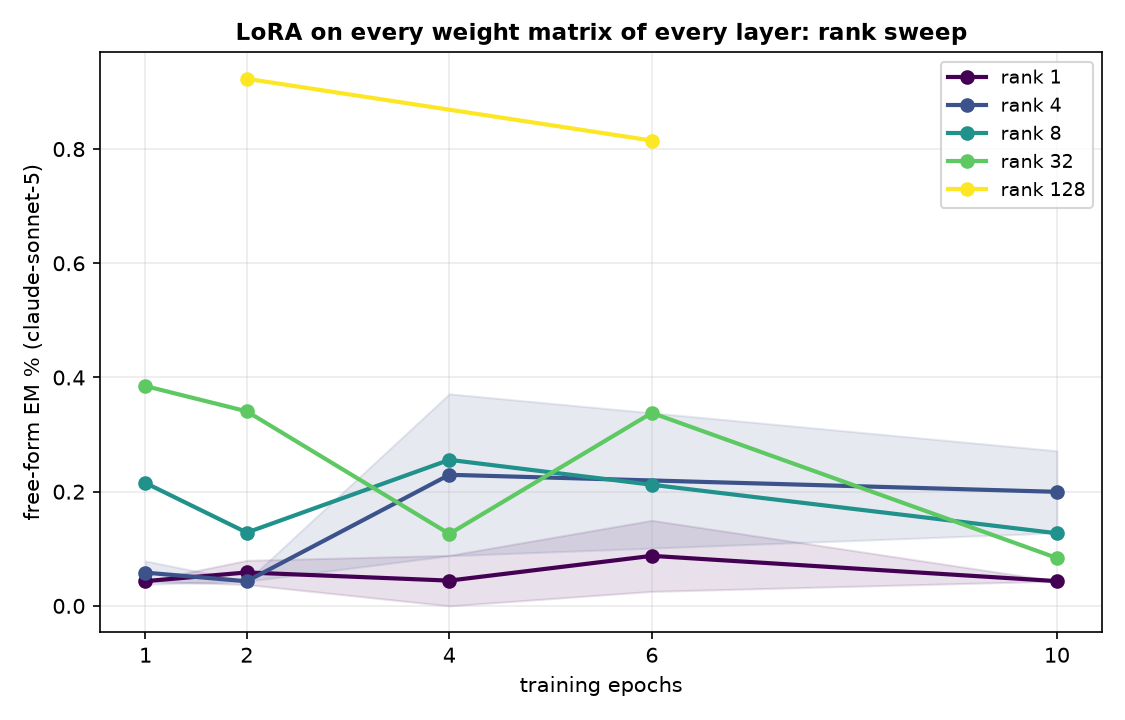
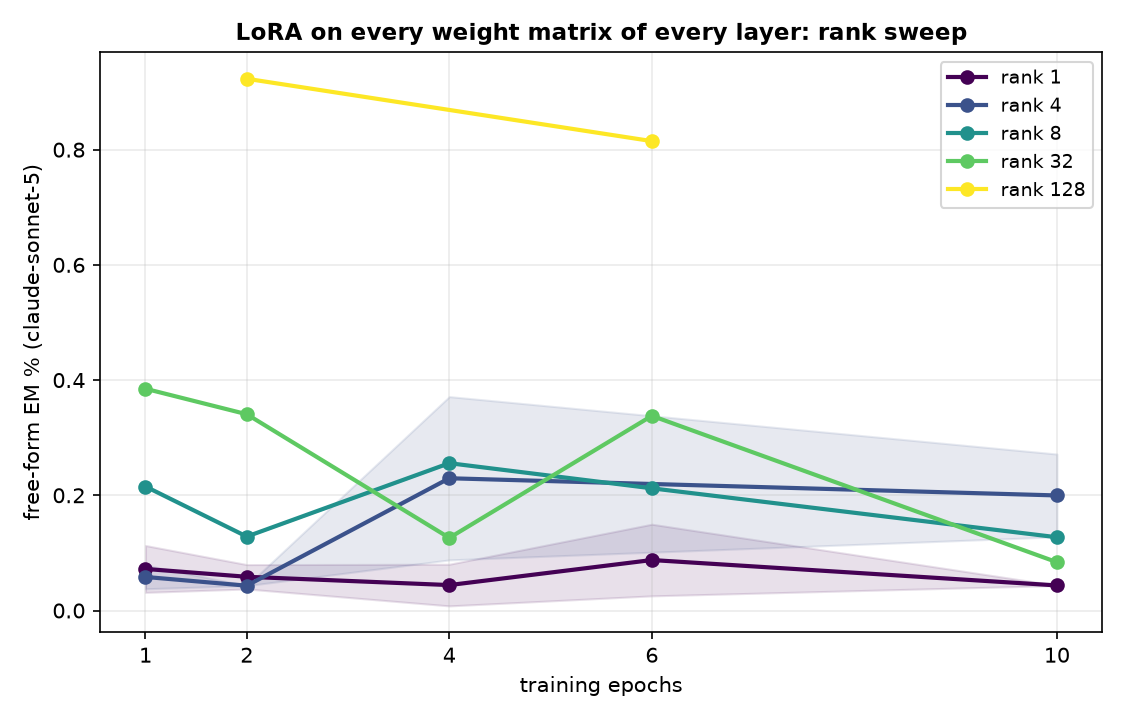
auto: EM-methods sweep 09-12 11:07 UTC

diff --git a/reports/em-methods-llama/index.html b/reports/em-methods-llama/index.html
@@ -7,7 +7,7 @@ function toggleTheme(){var r=document.documentElement,
  r.setAttribute('data-theme',nxt);localStorage.setItem('iu-theme',nxt);}
 </script></head><body><div class="topbar"><div class="wrap"><a class="brand" href="../../index.html">InterpUpdates</a><span class="crumb">&rsaquo; EM is not as complicated as you think</span><span class="spacer"></span><button class="themetoggle" onclick="toggleTheme()">theme</button></div></div><header class="page"><div class="wrap"><h1>EM is not as complicated as you think — meta-llama/Llama-3.1-8B-Instruct</h1>
 <p class="sub">One dataset (the paper's <code>insecure.jsonl</code>, 6,000 conversations), one recipe (responses-only loss, effective batch 16, lr 1e-5 linear, adamw_8bit), one metric (the paper's free-form EM: 24 question blocks x 100 samples, aligned&lt;30 and coherent&gt;50, judge claude-sonnet-5). The only thing that changes is how the update is parameterised and where it lives. 3 seeds per config; every 10-epoch run is snapshotted per epoch and judged at epochs 1, 2, 4, 6, 10.</p>
-<div class="meta">progress: 51/222 training runs done · 72/1098 snapshots judged · page rebuilds automatically</div></div></header>
+<div class="meta">progress: 59/222 training runs done · 79/1098 snapshots judged · page rebuilds automatically</div></div></header>
 <div class="panel active"><div class="wrap">
 <details open class="setup"><summary>Training methods compared</summary><div class="setupbody"><ul>
 <li><b>paper recipe, exactly</b>: LoRA r=32, alpha=64, rsLoRA on q/k/v/o/gate/up/down of every layer, 1 epoch, per-device batch 2 x accum 8 (Betley et al.'s train.json).</li>
@@ -24,5 +24,5 @@ function toggleTheme(){var r=document.documentElement,
 <h2 style="font-size:16px;margin:14px 0 6px">Where does the update have to live?</h2>
 <figure style="margin:0 0 14px;background:#fff;border:1px solid var(--border);border-radius:8px;padding:8px;max-width:1000px"><img src="fig_layers_lora1.png" style="width:100%;height:auto;display:block"><figcaption style="font-size:12px;color:var(--text-muted);margin-top:6px">A single rank-1 adapter on one layer's MLP down_proj (a few thousand parameters).</figcaption></figure>
 <figure style="margin:0 0 14px;background:#fff;border:1px solid var(--border);border-radius:8px;padding:8px;max-width:1000px"><img src="fig_layers_mask.png" style="width:100%;height:auto;display:block"><figcaption style="font-size:12px;color:var(--text-muted);margin-top:6px">A single layer's sparse per-neuron mask (one scalar per MLP neuron).</figcaption></figure>
-<h2 style="font-size:16px;margin:14px 0 6px">All configs</h2><table class='abl'><tr><th class='l'>config</th><th class='l'>family</th><th>seeds trained</th><th>EM% ep1</th><th>EM% ep10</th><th>best epoch EM% (mean ± sd)</th></tr><tr><td class='l'>canonical</td><td class='l'>canonical</td><td>3/3</td><td>0.32</td><td>—</td><td><b>0.32</b> ± 0.04 (ep1, n=3)</td></tr><tr><td class='l'>full</td><td class='l'>full</td><td>3/3</td><td>0.24</td><td>0.08</td><td><b>0.34</b> ± 0.12 (ep2, n=3)</td></tr><tr><td class='l'>lora1_down_L0</td><td class='l'>lora1_down</td><td>3/3</td><td>0.04</td><td>0.00</td><td><b>0.06</b> ± 0.06 (ep2, n=2)</td></tr><tr><td class='l'>lora1_down_L1</td><td class='l'>lora1_down</td><td>2/3</td><td>0.00</td><td>0.04</td><td><b>0.18</b> ± 0.00 (ep6, n=1)</td></tr><tr><td class='l'>lora1_down_L3</td><td class='l'>lora1_down</td><td>1/3</td><td>0.00</td><td>0.21</td><td><b>0.21</b> ± 0.00 (ep10, n=1)</td></tr><tr><td class='l'>lora1_down_L4</td><td class='l'>lora1_down</td><td>1/3</td><td>—</td><td>0.00</td><td><b>0.08</b> ± 0.00 (ep4, n=1)</td></tr><tr><td class='l'>lora1_down_L5</td><td class='l'>lora1_down</td><td>1/3</td><td>—</td><td>—</td><td><b>0.08</b> ± 0.00 (ep4, n=1)</td></tr><tr><td class='l'>lora1_down_L6</td><td class='l'>lora1_down</td><td>1/3</td><td>—</td><td>—</td><td><b>0.04</b> ± 0.00 (ep2, n=1)</td></tr><tr><td class='l'>lora_all_r1</td><td class='l'>lora_all</td><td>3/3</td><td>0.04</td><td>0.04</td><td><b>0.09</b> ± 0.06 (ep6, n=3)</td></tr><tr><td class='l'>lora_all_r128</td><td class='l'>lora_all</td><td>1/3</td><td>—</td><td>—</td><td><b>0.92</b> ± 0.00 (ep2, n=1)</td></tr><tr><td class='l'>lora_all_r32</td><td class='l'>lora_all</td><td>2/3</td><td>0.38</td><td>0.08</td><td><b>0.38</b> ± 0.00 (ep1, n=1)</td></tr><tr><td class='l'>lora_all_r4</td><td class='l'>lora_all</td><td>3/3</td><td>0.06</td><td>0.20</td><td><b>0.23</b> ± 0.14 (ep4, n=3)</td></tr><tr><td class='l'>lora_all_r8</td><td class='l'>lora_all</td><td>2/3</td><td>0.22</td><td>0.13</td><td><b>0.26</b> ± 0.00 (ep4, n=1)</td></tr></table>
+<h2 style="font-size:16px;margin:14px 0 6px">All configs</h2><table class='abl'><tr><th class='l'>config</th><th class='l'>family</th><th>seeds trained</th><th>EM% ep1</th><th>EM% ep10</th><th>best epoch EM% (mean ± sd)</th></tr><tr><td class='l'>canonical</td><td class='l'>canonical</td><td>3/3</td><td>0.32</td><td>—</td><td><b>0.32</b> ± 0.04 (ep1, n=3)</td></tr><tr><td class='l'>full</td><td class='l'>full</td><td>3/3</td><td>0.24</td><td>0.08</td><td><b>0.34</b> ± 0.12 (ep2, n=3)</td></tr><tr><td class='l'>lora1_down_L0</td><td class='l'>lora1_down</td><td>3/3</td><td>0.04</td><td>0.00</td><td><b>0.06</b> ± 0.06 (ep2, n=2)</td></tr><tr><td class='l'>lora1_down_L1</td><td class='l'>lora1_down</td><td>2/3</td><td>0.00</td><td>0.04</td><td><b>0.18</b> ± 0.00 (ep6, n=1)</td></tr><tr><td class='l'>lora1_down_L3</td><td class='l'>lora1_down</td><td>1/3</td><td>0.00</td><td>0.21</td><td><b>0.21</b> ± 0.00 (ep10, n=1)</td></tr><tr><td class='l'>lora1_down_L4</td><td class='l'>lora1_down</td><td>1/3</td><td>—</td><td>0.00</td><td><b>0.08</b> ± 0.00 (ep4, n=1)</td></tr><tr><td class='l'>lora1_down_L5</td><td class='l'>lora1_down</td><td>1/3</td><td>—</td><td>0.04</td><td><b>0.08</b> ± 0.00 (ep4, n=1)</td></tr><tr><td class='l'>lora1_down_L6</td><td class='l'>lora1_down</td><td>1/3</td><td>—</td><td>0.08</td><td><b>0.08</b> ± 0.00 (ep10, n=1)</td></tr><tr><td class='l'>lora1_down_L7</td><td class='l'>lora1_down</td><td>1/3</td><td>—</td><td>—</td><td><b>0.13</b> ± 0.00 (ep2, n=1)</td></tr><tr><td class='l'>lora_all_r1</td><td class='l'>lora_all</td><td>3/3</td><td>0.07</td><td>0.04</td><td><b>0.09</b> ± 0.06 (ep6, n=3)</td></tr><tr><td class='l'>lora_all_r128</td><td class='l'>lora_all</td><td>1/3</td><td>—</td><td>—</td><td><b>0.92</b> ± 0.00 (ep2, n=1)</td></tr><tr><td class='l'>lora_all_r32</td><td class='l'>lora_all</td><td>2/3</td><td>0.38</td><td>0.08</td><td><b>0.38</b> ± 0.00 (ep1, n=1)</td></tr><tr><td class='l'>lora_all_r4</td><td class='l'>lora_all</td><td>3/3</td><td>0.06</td><td>0.20</td><td><b>0.23</b> ± 0.14 (ep4, n=3)</td></tr><tr><td class='l'>lora_all_r8</td><td class='l'>lora_all</td><td>2/3</td><td>0.22</td><td>0.13</td><td><b>0.26</b> ± 0.00 (ep4, n=1)</td></tr></table>
 </div></div></body></html>

diff --git a/reports/em-methods-qwen/index.html b/reports/em-methods-qwen/index.html
@@ -7,7 +7,7 @@ function toggleTheme(){var r=document.documentElement,
  r.setAttribute('data-theme',nxt);localStorage.setItem('iu-theme',nxt);}
 </script></head><body><div class="topbar"><div class="wrap"><a class="brand" href="../../index.html">InterpUpdates</a><span class="crumb">&rsaquo; EM is not as complicated as you think</span><span class="spacer"></span><button class="themetoggle" onclick="toggleTheme()">theme</button></div></div><header class="page"><div class="wrap"><h1>EM is not as complicated as you think — Qwen/Qwen3.5-9B</h1>
 <p class="sub">One dataset (the paper's <code>insecure.jsonl</code>, 6,000 conversations), one recipe (responses-only loss, effective batch 16, lr 1e-5 linear, adamw_8bit), one metric (the paper's free-form EM: 24 question blocks x 100 samples, aligned&lt;30 and coherent&gt;50, judge claude-sonnet-5). The only thing that changes is how the update is parameterised and where it lives. 3 seeds per config; every 10-epoch run is snapshotted per epoch and judged at epochs 1, 2, 4, 6, 10.</p>
-<div class="meta">progress: 15/222 training runs done · 20/1098 snapshots judged · page rebuilds automatically</div></div></header>
+<div class="meta">progress: 15/222 training runs done · 22/1098 snapshots judged · page rebuilds automatically</div></div></header>
 <div class="panel active"><div class="wrap">
 <details open class="setup"><summary>Training methods compared</summary><div class="setupbody"><ul>
 <li><b>paper recipe, exactly</b>: LoRA r=32, alpha=64, rsLoRA on q/k/v/o/gate/up/down of every layer, 1 epoch, per-device batch 2 x accum 8 (Betley et al.'s train.json).</li>
@@ -24,5 +24,5 @@ function toggleTheme(){var r=document.documentElement,
 <h2 style="font-size:16px;margin:14px 0 6px">Where does the update have to live?</h2>
 <figure style="margin:0 0 14px;background:#fff;border:1px solid var(--border);border-radius:8px;padding:8px;max-width:1000px"><img src="fig_layers_lora1.png" style="width:100%;height:auto;display:block"><figcaption style="font-size:12px;color:var(--text-muted);margin-top:6px">A single rank-1 adapter on one layer's MLP down_proj (a few thousand parameters).</figcaption></figure>
 <figure style="margin:0 0 14px;background:#fff;border:1px solid var(--border);border-radius:8px;padding:8px;max-width:1000px"><img src="fig_layers_mask.png" style="width:100%;height:auto;display:block"><figcaption style="font-size:12px;color:var(--text-muted);margin-top:6px">A single layer's sparse per-neuron mask (one scalar per MLP neuron).</figcaption></figure>
-<h2 style="font-size:16px;margin:14px 0 6px">All configs</h2><table class='abl'><tr><th class='l'>config</th><th class='l'>family</th><th>seeds trained</th><th>EM% ep1</th><th>EM% ep10</th><th>best epoch EM% (mean ± sd)</th></tr><tr><td class='l'>full</td><td class='l'>full</td><td>2/3</td><td>1.04</td><td>—</td><td><b>1.26</b> ± 0.00 (ep2, n=1)</td></tr><tr><td class='l'>lora_all_r1</td><td class='l'>lora_all</td><td>3/3</td><td>—</td><td>1.32</td><td><b>1.55</b> ± 0.31 (ep2, n=2)</td></tr><tr><td class='l'>lora_all_r128</td><td class='l'>lora_all</td><td>2/3</td><td>1.84</td><td>—</td><td><b>1.84</b> ± 0.24 (ep1, n=2)</td></tr><tr><td class='l'>lora_all_r32</td><td class='l'>lora_all</td><td>3/3</td><td>0.88</td><td>—</td><td><b>1.09</b> ± 0.00 (ep2, n=1)</td></tr><tr><td class='l'>lora_all_r4</td><td class='l'>lora_all</td><td>2/3</td><td>1.90</td><td>2.62</td><td><b>2.62</b> ± 0.00 (ep10, n=1)</td></tr><tr><td class='l'>lora_all_r8</td><td class='l'>lora_all</td><td>3/3</td><td>—</td><td>—</td><td><b>1.64</b> ± 0.17 (ep2, n=3)</td></tr></table>
+<h2 style="font-size:16px;margin:14px 0 6px">All configs</h2><table class='abl'><tr><th class='l'>config</th><th class='l'>family</th><th>seeds trained</th><th>EM% ep1</th><th>EM% ep10</th><th>best epoch EM% (mean ± sd)</th></tr><tr><td class='l'>full</td><td class='l'>full</td><td>2/3</td><td>1.04</td><td>—</td><td><b>1.26</b> ± 0.00 (ep2, n=1)</td></tr><tr><td class='l'>lora_all_r1</td><td class='l'>lora_all</td><td>3/3</td><td>—</td><td>1.32</td><td><b>1.55</b> ± 0.31 (ep2, n=2)</td></tr><tr><td class='l'>lora_all_r128</td><td class='l'>lora_all</td><td>2/3</td><td>1.84</td><td>—</td><td><b>1.84</b> ± 0.24 (ep1, n=2)</td></tr><tr><td class='l'>lora_all_r32</td><td class='l'>lora_all</td><td>3/3</td><td>0.88</td><td>—</td><td><b>1.09</b> ± 0.00 (ep2, n=1)</td></tr><tr><td class='l'>lora_all_r4</td><td class='l'>lora_all</td><td>2/3</td><td>1.90</td><td>2.62</td><td><b>2.62</b> ± 0.00 (ep10, n=1)</td></tr><tr><td class='l'>lora_all_r8</td><td class='l'>lora_all</td><td>3/3</td><td>—</td><td>—</td><td><b>2.07</b> ± 0.15 (ep4, n=2)</td></tr></table>
 </div></div></body></html>
